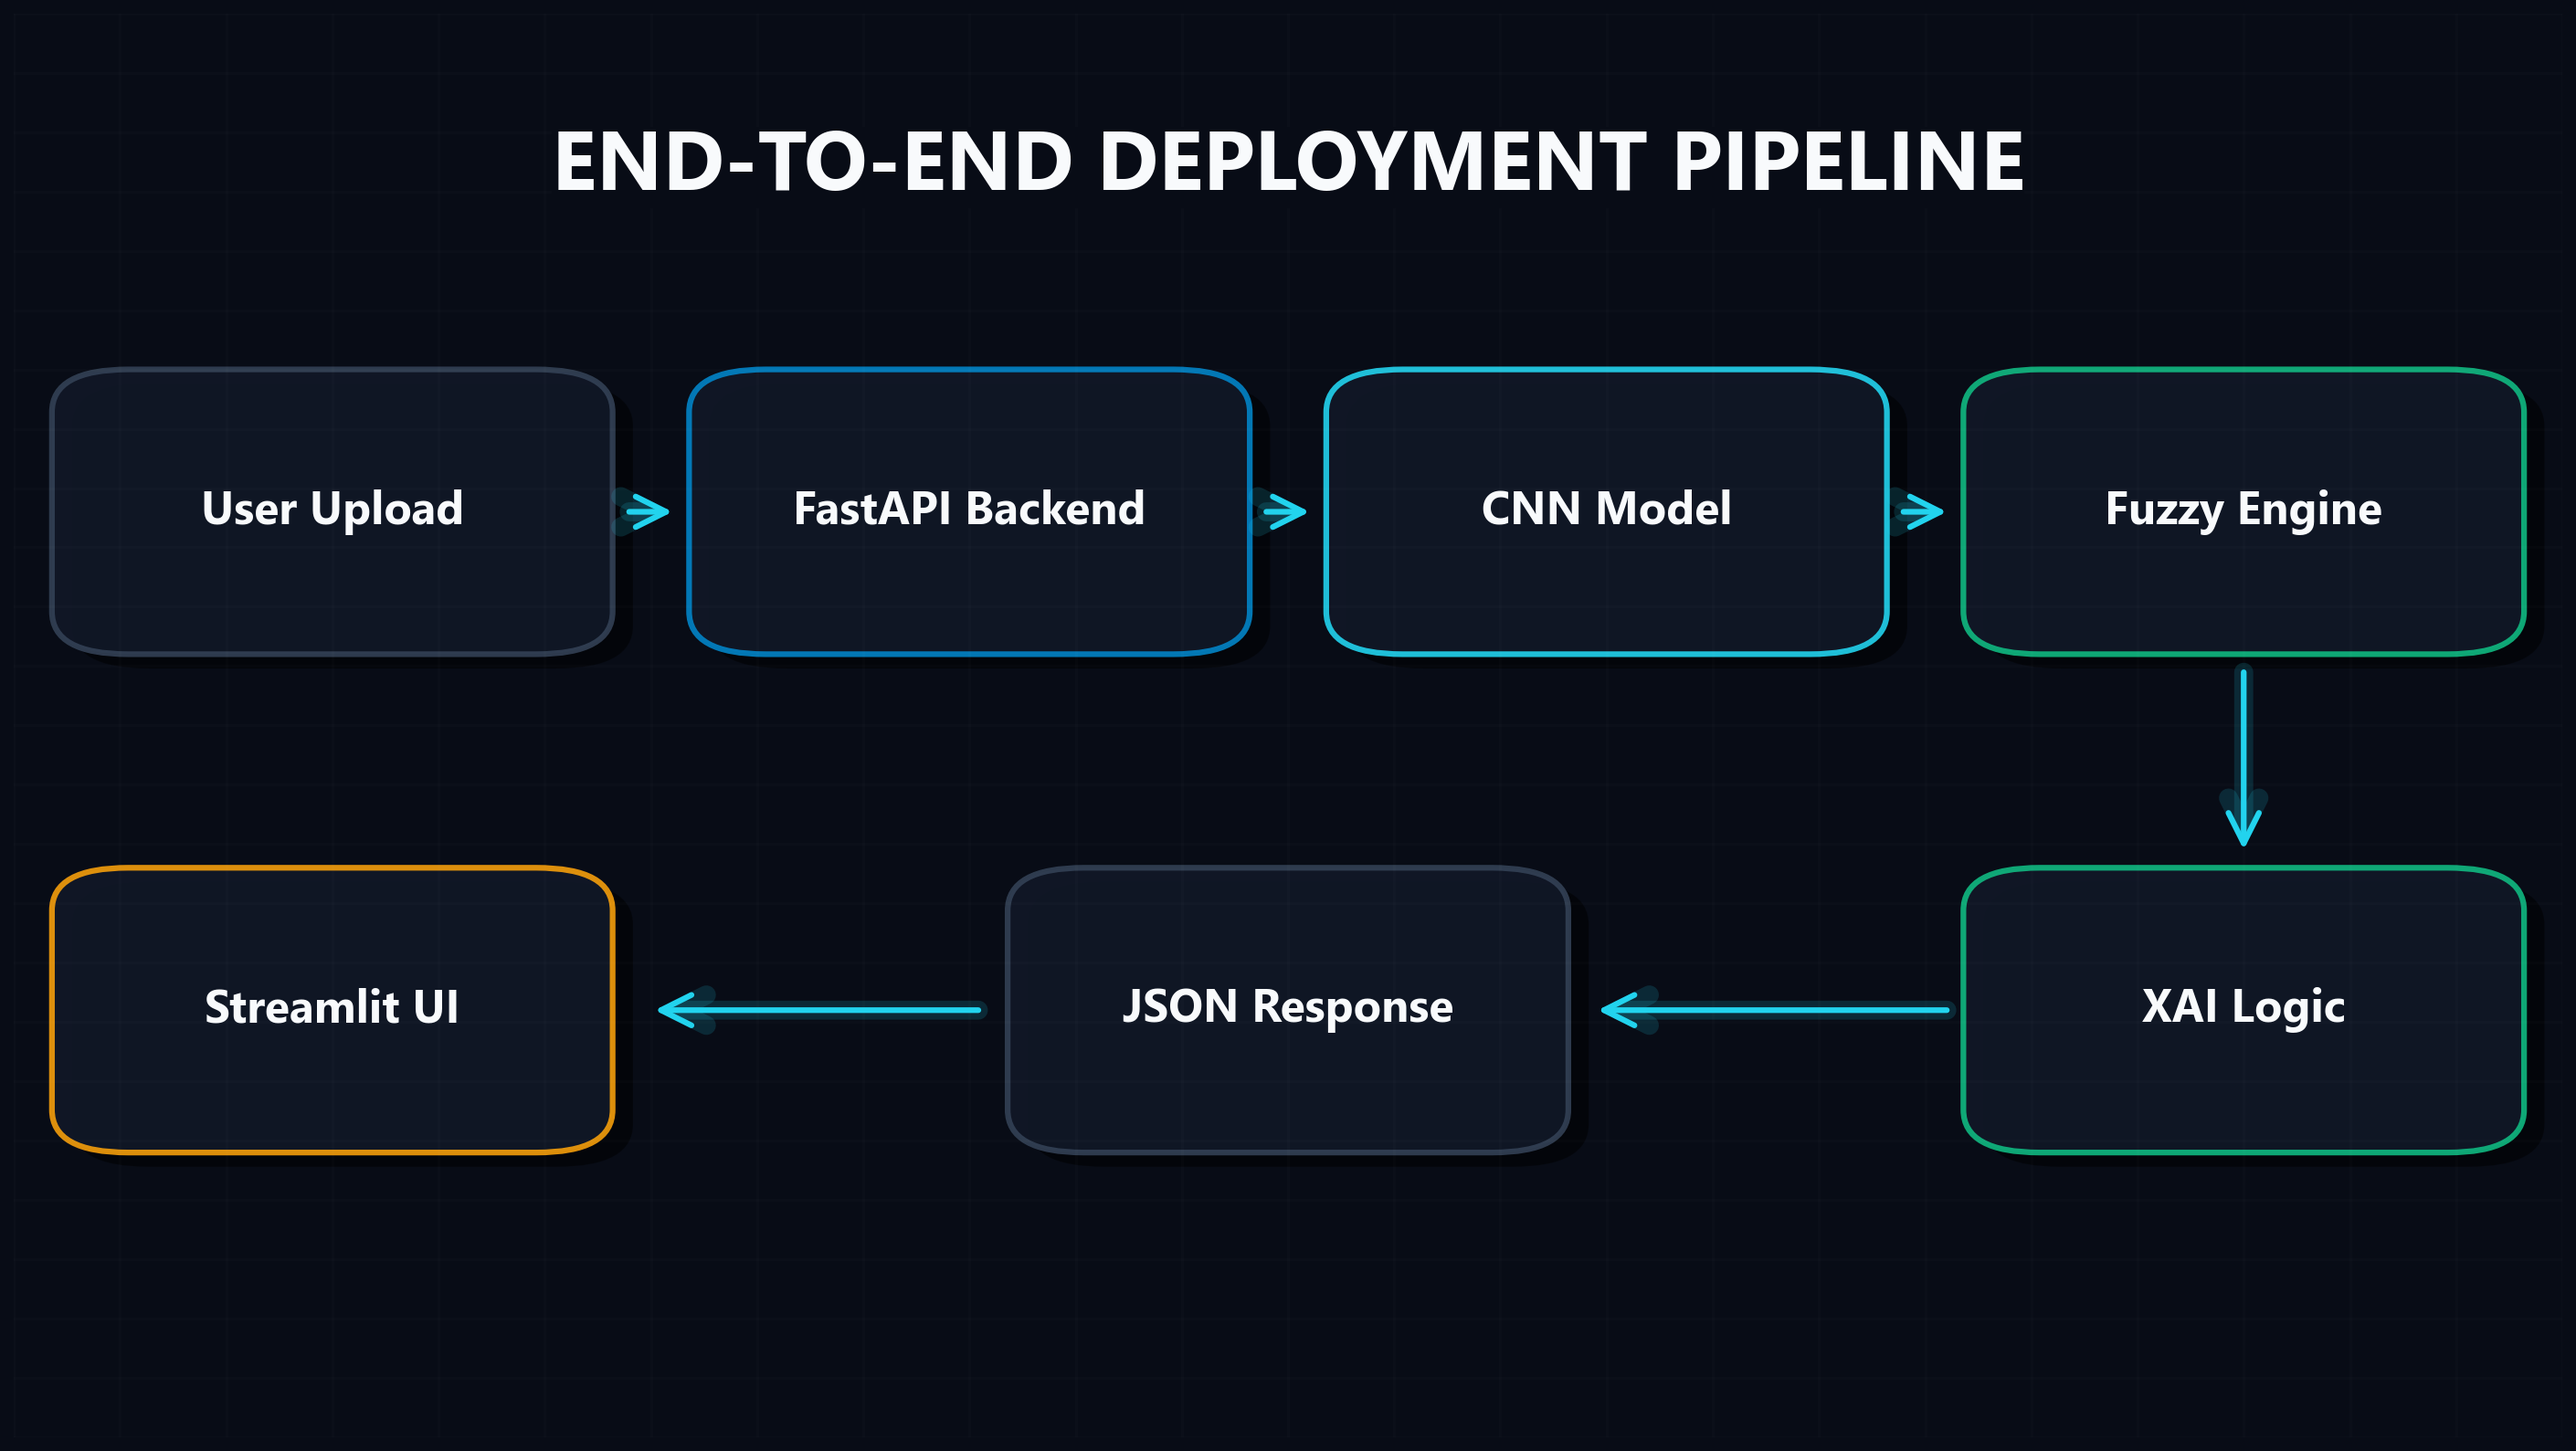
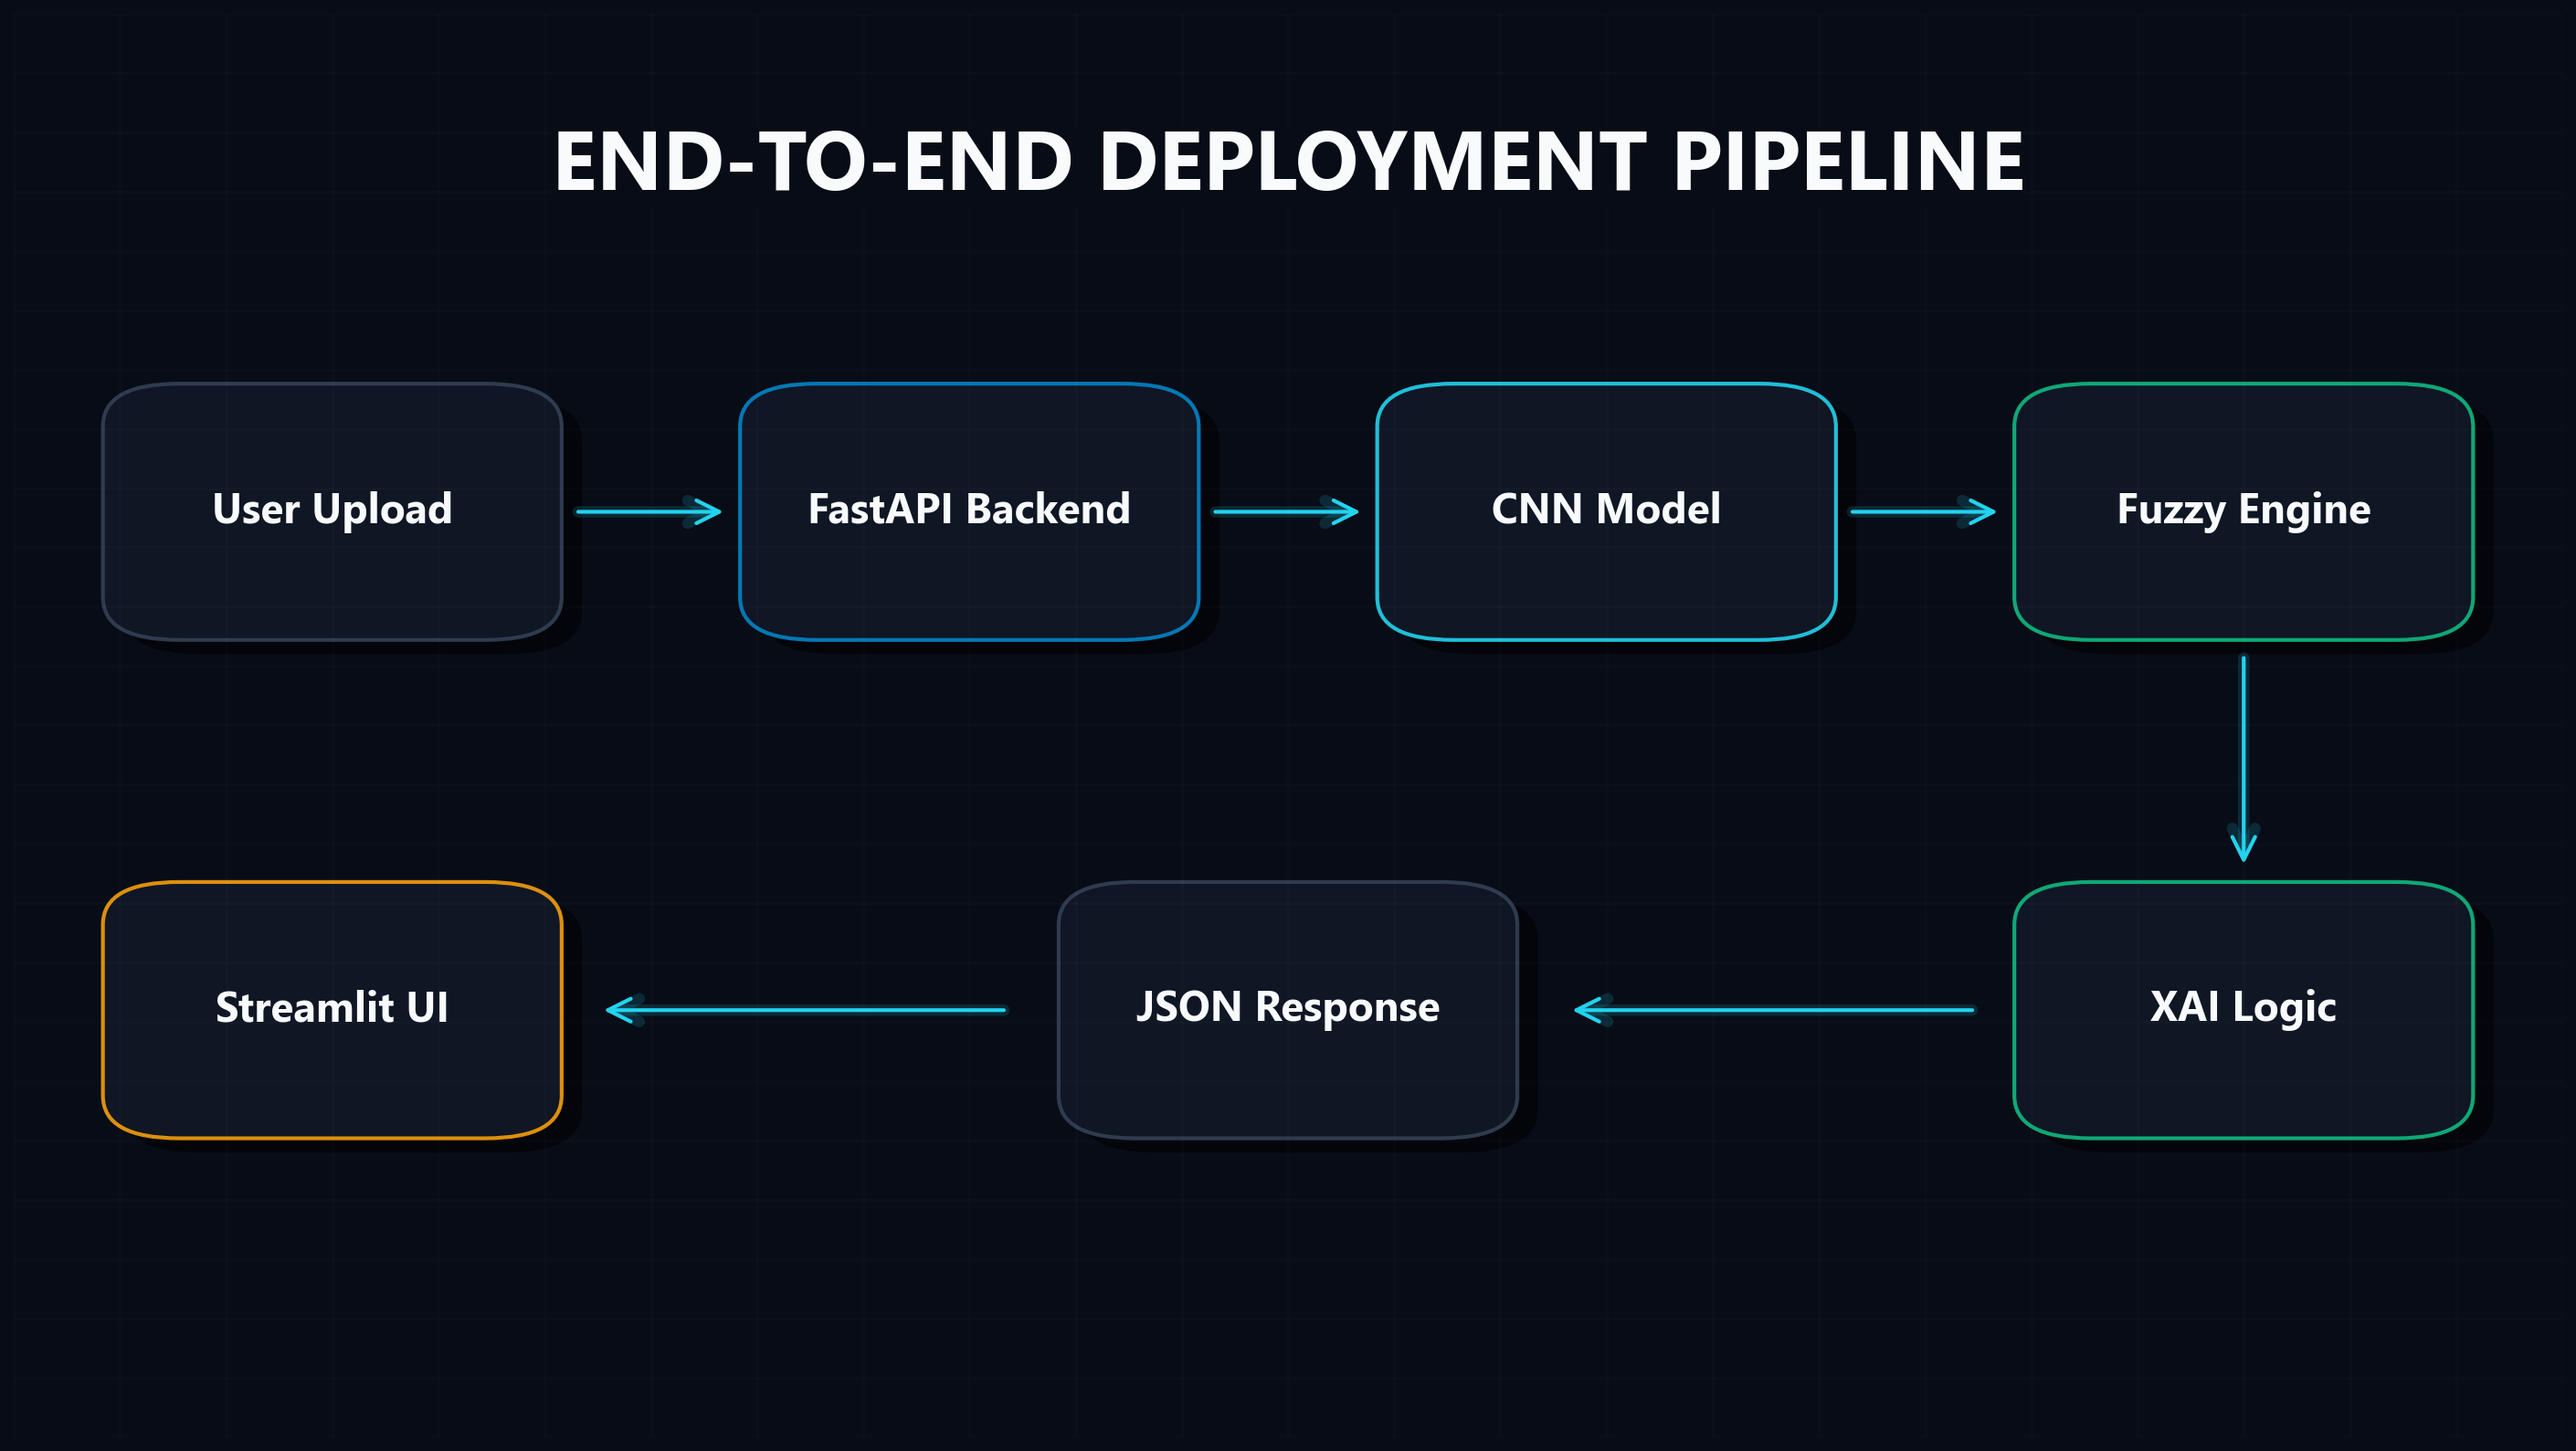
style: Adjust arrows and border thickness in fig_12 for better visual balance

diff --git a/scripts/generate_academic_figures.py b/scripts/generate_academic_figures.py
@@ -49,7 +49,7 @@ def draw_title(ax, text):
     ax.text(0.5, 0.92, text, ha='center', va='top', fontsize=44, weight='bold', color=TEXT_MAIN, 
             bbox=dict(facecolor=BG_COLOR, edgecolor='none', pad=0, alpha=0.9))
 
-def draw_glass_box(ax, x, y, width, height, text="", title="", bg=BOX_BG, border=BOX_BORDER, alpha=0.9, fontsize=24, title_color=CYAN_GLOW):
+def draw_glass_box(ax, x, y, width, height, text="", title="", bg=BOX_BG, border=BOX_BORDER, alpha=0.9, fontsize=24, title_color=CYAN_GLOW, lw=3):
     # Generous padding inside box via pad=0.03 (approx 40-50px equivalent)
     shadow = patches.FancyBboxPatch((x - width/2 + 0.008, y - height/2 - 0.01), width, height, 
                                  boxstyle="round,pad=0.03,rounding_size=0.03", 
@@ -58,7 +58,7 @@ def draw_glass_box(ax, x, y, width, height, text="", title="", bg=BOX_BG, border
     
     box = patches.FancyBboxPatch((x - width/2, y - height/2), width, height, 
                                  boxstyle="round,pad=0.03,rounding_size=0.03", 
-                                 ec=border, fc=bg, lw=3, alpha=alpha)
+                                 ec=border, fc=bg, lw=lw, alpha=alpha)
     ax.add_patch(box)
     
     if title:
@@ -73,11 +73,11 @@ def draw_glass_box(ax, x, y, width, height, text="", title="", bg=BOX_BG, border
         ax.text(x, y, text, ha='center', va='center', color=TEXT_MAIN, 
                 fontsize=fontsize, linespacing=1.8, weight='bold')
 
-def draw_glow_arrow(ax, x1, y1, x2, y2, color=CYAN_GLOW):
+def draw_glow_arrow(ax, x1, y1, x2, y2, color=CYAN_GLOW, lw_core=3, lw_glow=10, mutation_scale=40):
     ax.annotate("", xy=(x2, y2), xytext=(x1, y1),
-                arrowprops=dict(arrowstyle="->", color=color, lw=10, alpha=0.15, mutation_scale=40))
+                arrowprops=dict(arrowstyle="->", color=color, lw=lw_glow, alpha=0.15, mutation_scale=mutation_scale))
     ax.annotate("", xy=(x2, y2), xytext=(x1, y1),
-                arrowprops=dict(arrowstyle="->", color=color, lw=3, mutation_scale=40))
+                arrowprops=dict(arrowstyle="->", color=color, lw=lw_core, mutation_scale=mutation_scale))
 
 def draw_bar(ax, x, y, width, height, value, color, label):
     ax.add_patch(patches.FancyBboxPatch((x, y), width, height, boxstyle="round,pad=0,rounding_size=0.01", fc="#1e293b", ec="none"))
@@ -373,15 +373,15 @@ def fig_12_deployment_pipeline():
     ]
     
     for x, y, text, color in boxes:
-        draw_glass_box(ax, x, y, 0.16, 0.14, text=text, border=color, fontsize=24)
+        draw_glass_box(ax, x, y, 0.12, 0.12, text=text, border=color, fontsize=22, lw=2)
         
-    draw_glow_arrow(ax, 0.24, 0.65, 0.26, 0.65)
-    draw_glow_arrow(ax, 0.49, 0.65, 0.51, 0.65)
-    draw_glow_arrow(ax, 0.74, 0.65, 0.76, 0.65)
+    draw_glow_arrow(ax, 0.22, 0.65, 0.28, 0.65, lw_core=2, lw_glow=6, mutation_scale=30)
+    draw_glow_arrow(ax, 0.47, 0.65, 0.53, 0.65, lw_core=2, lw_glow=6, mutation_scale=30)
+    draw_glow_arrow(ax, 0.72, 0.65, 0.78, 0.65, lw_core=2, lw_glow=6, mutation_scale=30)
     
-    draw_glow_arrow(ax, 0.875, 0.54, 0.875, 0.41)
-    draw_glow_arrow(ax, 0.76, 0.30, 0.62, 0.30)
-    draw_glow_arrow(ax, 0.38, 0.30, 0.25, 0.30)
+    draw_glow_arrow(ax, 0.875, 0.55, 0.875, 0.40, lw_core=2, lw_glow=6, mutation_scale=30)
+    draw_glow_arrow(ax, 0.77, 0.30, 0.61, 0.30, lw_core=2, lw_glow=6, mutation_scale=30)
+    draw_glow_arrow(ax, 0.39, 0.30, 0.23, 0.30, lw_core=2, lw_glow=6, mutation_scale=30)
 
     plt.savefig(os.path.join(OUTPUT_DIR, "fig_12_deployment_pipeline.png"), bbox_inches='tight')
     plt.close()
